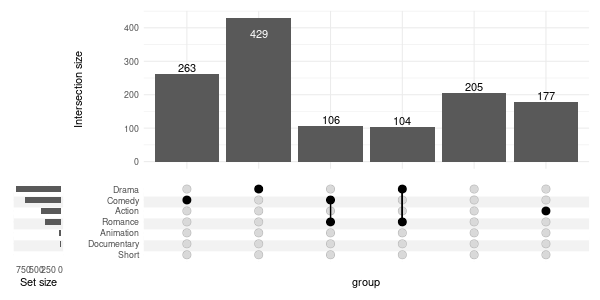
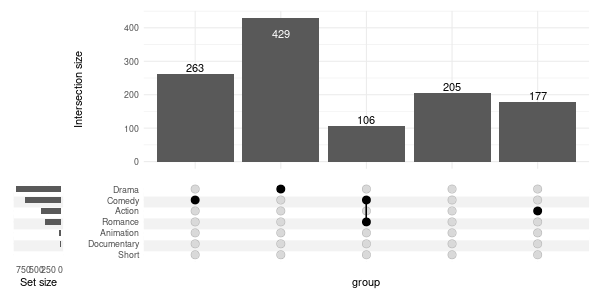
Built site for ComplexUpset: 1.1.0@

diff --git a/articles/Examples_Python.html b/articles/Examples_Python.html
@@ -2173,7 +2173,7 @@ mpaa   Bartlett test of homogeneity of variances           NA</code></pre>
 <div class="sourceCode" id="cb68"><pre class="sourceCode r"><code class="sourceCode r"><span id="cb68-1"><a href="#cb68-1" aria-hidden="true"></a><span class="op">%%</span>R <span class="op">-</span>w <span class="dv">800</span> <span class="op">-</span>h <span class="dv">300</span></span>
 <span id="cb68-2"><a href="#cb68-2" aria-hidden="true"></a><span class="kw">upset</span>(movies, genres, <span class="dt">width_ratio=</span><span class="fl">0.1</span>, <span class="dt">sort_intersections_by=</span><span class="kw">c</span>(<span class="st">'degree'</span>, <span class="st">'cardinality'</span>))</span></code></pre></div>
 <p><img src="Examples_Python_files/Examples_Python_157_0.png"></p>
-<p>User specified order:</p>
+<p>User-specified order:</p>
 <div class="sourceCode" id="cb69"><pre class="sourceCode r"><code class="sourceCode r"><span id="cb69-1"><a href="#cb69-1" aria-hidden="true"></a><span class="op">%%</span>R <span class="op">-</span>w <span class="dv">600</span> <span class="op">-</span>h <span class="dv">300</span></span>
 <span id="cb69-2"><a href="#cb69-2" aria-hidden="true"></a><span class="kw">upset</span>(</span>
 <span id="cb69-3"><a href="#cb69-3" aria-hidden="true"></a>    movies,</span>
@@ -2184,7 +2184,7 @@ mpaa   Bartlett test of homogeneity of variances           NA</code></pre>
 <span id="cb69-8"><a href="#cb69-8" aria-hidden="true"></a>        <span class="st">'Comedy'</span>,</span>
 <span id="cb69-9"><a href="#cb69-9" aria-hidden="true"></a>        <span class="st">'Drama'</span>,</span>
 <span id="cb69-10"><a href="#cb69-10" aria-hidden="true"></a>        <span class="kw">c</span>(<span class="st">'Comedy'</span>, <span class="st">'Romance'</span>),</span>
-<span id="cb69-11"><a href="#cb69-11" aria-hidden="true"></a>        <span class="kw">c</span>(<span class="st">'Drama'</span>, <span class="st">'Romance'</span>),</span>
+<span id="cb69-11"><a href="#cb69-11" aria-hidden="true"></a>        <span class="kw">c</span>(<span class="st">'Romance'</span>, <span class="st">'Drama'</span>),</span>
 <span id="cb69-12"><a href="#cb69-12" aria-hidden="true"></a>        <span class="st">'Outside of known sets'</span>,</span>
 <span id="cb69-13"><a href="#cb69-13" aria-hidden="true"></a>        <span class="st">'Action'</span></span>
 <span id="cb69-14"><a href="#cb69-14" aria-hidden="true"></a>    )</span>

diff --git a/articles/Examples_R.html b/articles/Examples_R.html
@@ -2449,7 +2449,7 @@ NA
 <code class="sourceCode R"><span class="fu">set_size</span><span class="op">(</span><span class="fl">8</span>, <span class="fl">3</span><span class="op">)</span>
 <span class="fu"><a href="../reference/upset.html">upset</a></span><span class="op">(</span><span class="va">movies</span>, <span class="va">genres</span>, width_ratio<span class="op">=</span><span class="fl">0.1</span>, sort_intersections_by<span class="op">=</span><span class="fu"><a href="https://rdrr.io/r/base/c.html">c</a></span><span class="op">(</span><span class="st">'degree'</span>, <span class="st">'cardinality'</span><span class="op">)</span><span class="op">)</span></code></pre></div>
 <p><img src="Examples_R_files/Examples_R_150_0.png"></p>
-<p>User specified order:</p>
+<p>User-specified order:</p>
 <div class="sourceCode" id="cb68"><pre class="downlit sourceCode r">
 <code class="sourceCode R"><span class="fu">set_size</span><span class="op">(</span><span class="fl">6</span>, <span class="fl">3</span><span class="op">)</span>
 <span class="fu"><a href="../reference/upset.html">upset</a></span><span class="op">(</span>
@@ -2461,7 +2461,7 @@ NA
         <span class="st">'Comedy'</span>,
         <span class="st">'Drama'</span>,
         <span class="fu"><a href="https://rdrr.io/r/base/c.html">c</a></span><span class="op">(</span><span class="st">'Comedy'</span>, <span class="st">'Romance'</span><span class="op">)</span>,
-        <span class="fu"><a href="https://rdrr.io/r/base/c.html">c</a></span><span class="op">(</span><span class="st">'Drama'</span>, <span class="st">'Romance'</span><span class="op">)</span>,
+        <span class="fu"><a href="https://rdrr.io/r/base/c.html">c</a></span><span class="op">(</span><span class="st">'Romance'</span>, <span class="st">'Drama'</span><span class="op">)</span>,
         <span class="st">'Outside of known sets'</span>,
         <span class="st">'Action'</span>
     <span class="op">)</span>
